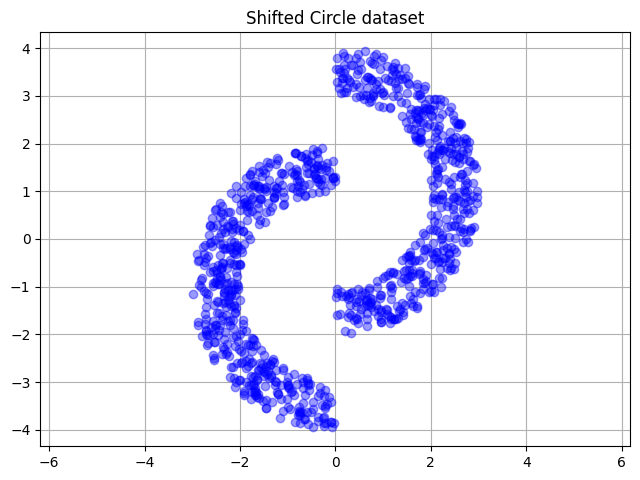
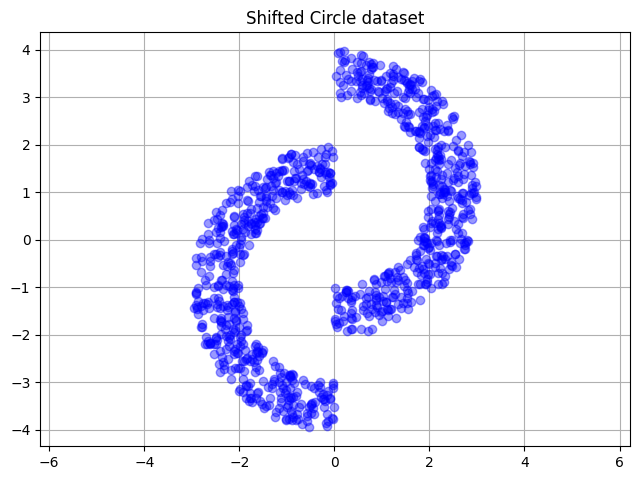
Use updated `ShiftedCircle` interface and set random seed

diff --git a/scripts/plot_shifted_circle.py b/scripts/plot_shifted_circle.py
@@ -1,10 +1,13 @@
+import torch
 from jutility import plotting, util, cli
 import vae
 
 def main():
+    torch.manual_seed(0)
+
     dataset = vae.data.ShiftedCircle()
 
-    x_n2 = dataset.x_train_ni
+    x_n2 = dataset.sample(1000)
 
     plotting.plot(
         plotting.Scatter(x_n2[:, 0], x_n2[:, 1], c="b", a=0.4),
